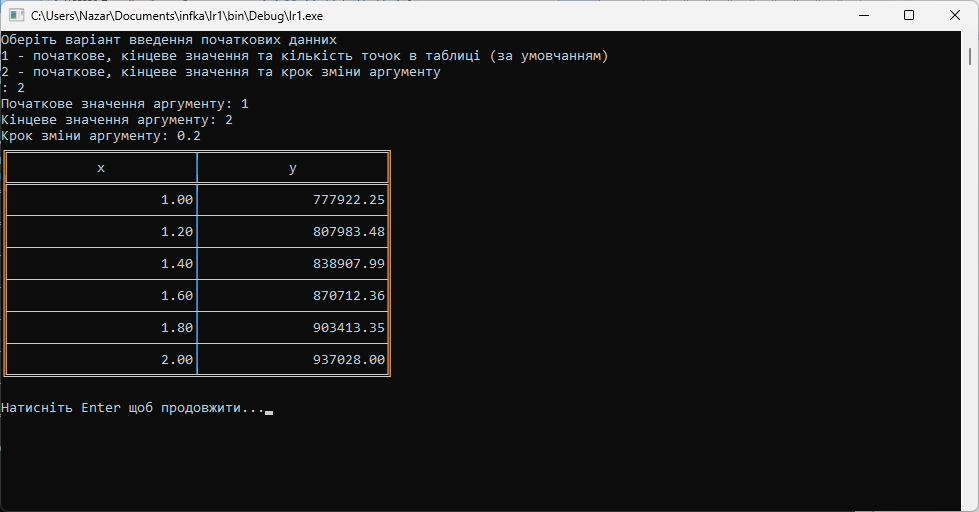
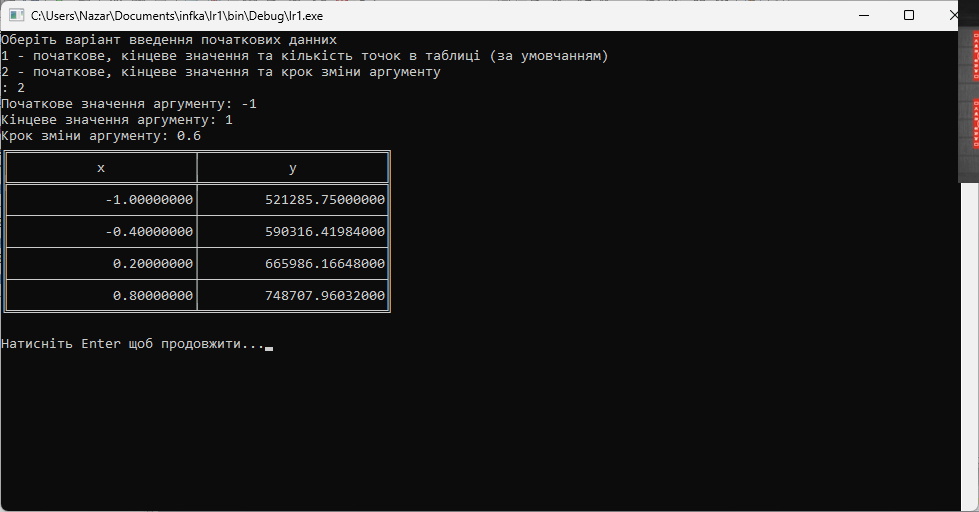
Виправлено кількість цифр після коми в таблиці

diff --git a/main.c b/main.c
@@ -193,7 +193,7 @@ void printTable(double x_arr[], double y_arr[], unsigned int size){
     printf("║           x           │           y           ║\n");
     printf("╠═══════════════════════╪═══════════════════════╣\n");
     for(unsigned int i = 0; i < size; i++){
-        printf("║%23.2lf│%23.2lf║\n", x_arr[i], y_arr[i]);
+        printf("║%23.8lf│%23.8lf║\n", x_arr[i], y_arr[i]);
         if(i == size - 1)
             printf("╚═══════════════════════╧═══════════════════════╝\n");
         else
